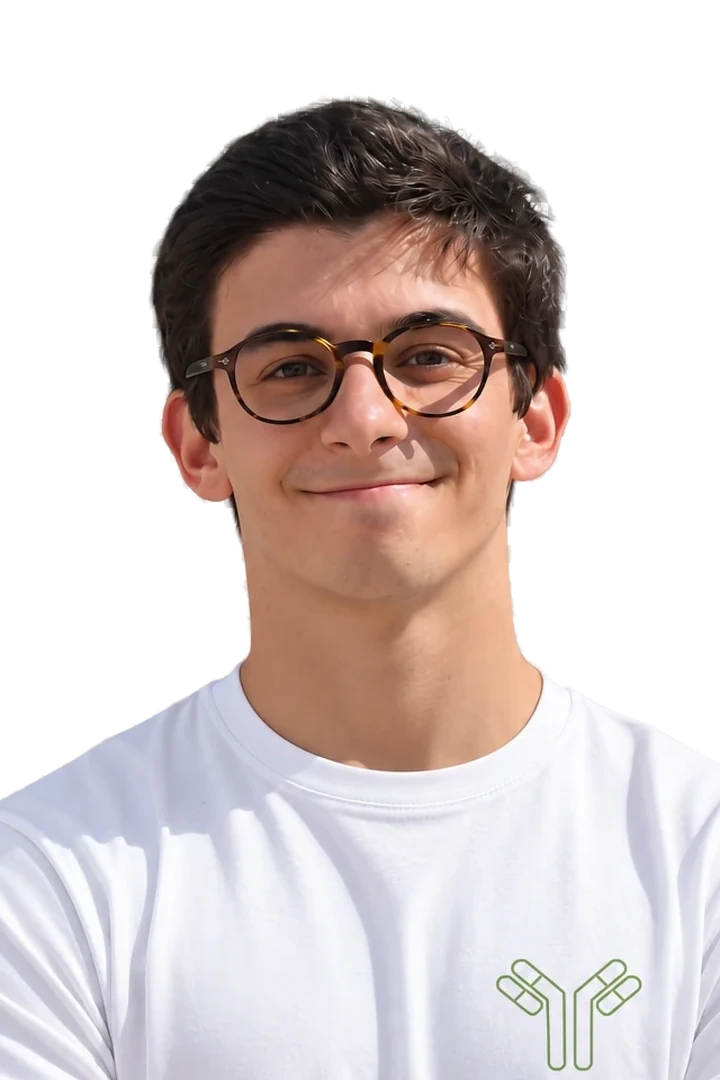
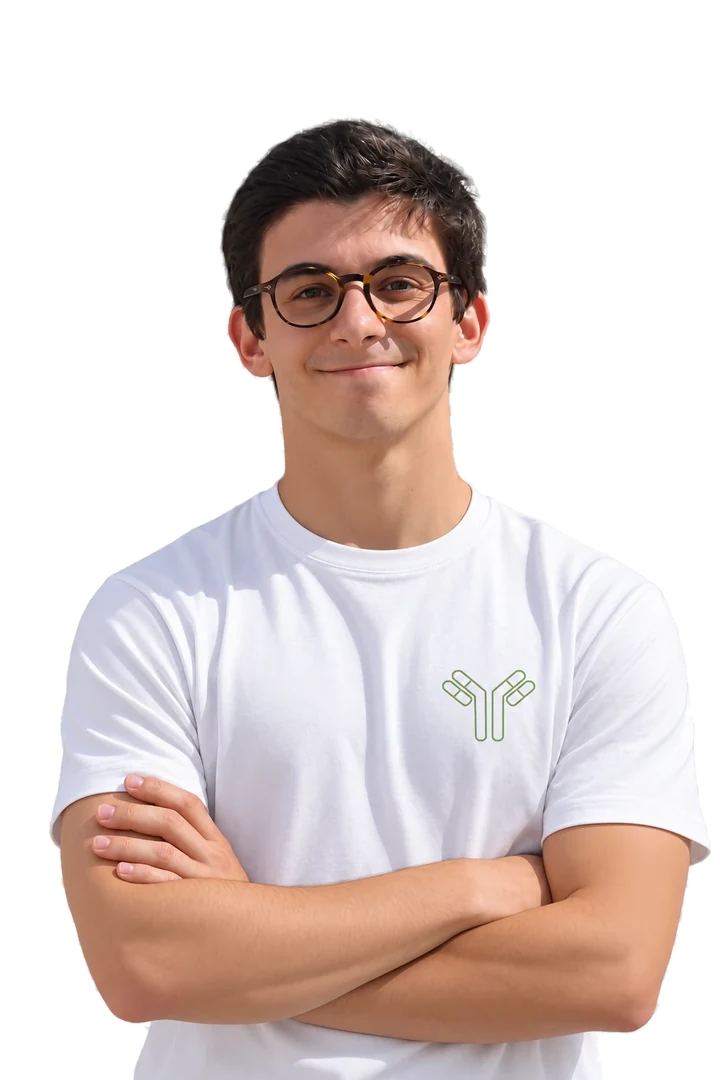
Afastar a fotografia do Francisco e rever a bio

diff --git a/src/i18n/translations.js b/src/i18n/translations.js
@@ -647,7 +647,7 @@ const translations = {
         {
           "name": "Francisco Magalhaes",
           "role": "CEO & CTO",
-          "bio": "Leads product and engineering, and builds the platform the kitchens work on."
+          "bio": "Leads product and engineering, and builds AllerCarte from the map to the menus."
         },
         {
           "name": "Rodrigo Azevedo",
@@ -1378,7 +1378,7 @@ const translations = {
         {
           "name": "Francisco Magalhães",
           "role": "CEO e CTO",
-          "bio": "Lidera produto e engenharia, e constrói a plataforma em que as cozinhas trabalham."
+          "bio": "Lidera produto e engenharia, e constrói o AllerCarte, do mapa aos menus."
         },
         {
           "name": "Rodrigo Azevedo",
